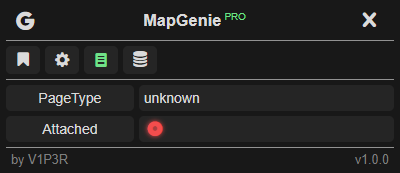
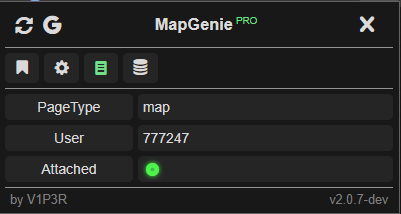
update popup docs

diff --git a/docs/popup.md b/docs/popup.md
@@ -5,12 +5,6 @@
 </p>
 <hr>
 <ul>
-    <li><a href="#pinning">Pinning the browser action</a></li>
-    <ul>
-        <li><a href="#chrome-pinning">Chrome</a></li>
-        <li><a href="#firefox-pinning">Firefox</a></li>
-    </ul>
-    <li><a href="#using">Using the browser action</a></li>
     <ul>
         <li>
             <a href="#bookmarks">
@@ -40,38 +34,7 @@
 </ul>
 
 <hr>
-<h2 id="pinning">Pinning the browser action</h2>
-<h3 id="chrome-pinning">Chrome</h3>
-<ol>
-    <li>
-        <p>Press the <code>puzzle piece icon</code> on the top right balk.</p>
-        <p><img src="../assets/popup/chrome-extension-pin.png" /></p>
-    </li>
-    <li>
-        <p>Search for the <code>fmg</code> extension and press the <code>drawing pin</code> icon.</p>
-        <p><img src="../assets/popup/chrome-extension-select.png" /></p>
-    </li>
-    <li>
-        <p>The <code>drawing pin</code> should turn blue.</p>
-        <p><img src="../assets/popup/chrome-extension-pinned.png" /></p>
-    </li>
-</ol>
-<h3 id="firefox-pinning">Firefox</h3>
-<ol>
-    <li>
-        <p>Press the <code>puzzle piece icon</code> on the top right balk.</p>
-        <p><img src="../assets/popup/firefox-extension-pin.png" /></p>
-    </li>
-    <li>
-        <p>Search for the <code>fmg</code> extension and press the <code>gear</code> icon.</p>
-        <p><img src="../assets/popup/firefox-extension-select.png" /></p>
-    </li>
-    <li>
-        <p>Press <code>Pin to Toolbar</code>.</p>
-        <p><img src="../assets/popup/firefox-extension-setting-drop-down.png" /></p>
-    </li>
-</ol>
-<hr>
+
 <h2 id="using">Using the browser action</h2>
 <h3 id="bookmarks">
     <img src="../assets/popup/icons/bookmarks.png" style="transform: translateY(25%)"/>
@@ -114,6 +77,12 @@
         </tr>
     </thead>
     <tbody>
+        <tr>
+            <td>Enable Extension</td>
+            <td>
+                This will disable/enable the extension.
+            </td>
+        </tr>
         <tr>
             <td>Allways enable presets</td>
             <td>This setting will enable presets on every map.</td>
@@ -161,6 +130,11 @@ The info page can show some usfull information.
             <td>
                 Indicates what page type the extension thinks your currently on.
                 <code>map, guide, map-selector, homepage or unknown</code>.
+            </td>
+        </tr>
+        <td>User</td>
+            <td>
+                The id of the user the extension is currently using to load and save data.
             </td>
         </tr>
         <tr>
@@ -214,8 +188,15 @@ The info page can show some usfull information.
             <td>Export</td>
             <td>
                 This will clear all the data for the current map page.
-                Will ask for a confirmation first to make sure you don't accidently press
-                the clear button.
+                Will ask for a confirmation first to make sure you don't accidently clear data.
+            </td>
+        </tr>
+        <tr>
+            <td>Import Mapgenie account</td>
+            <td>
+                This will load data from your mapgenie account.
+                You must be logged in with your mapgenie account without mock user enabled!
+                Will ask for a confirmation first to make sure you don't accidently overwrite data.
             </td>
         </tr>
     </tbody>
